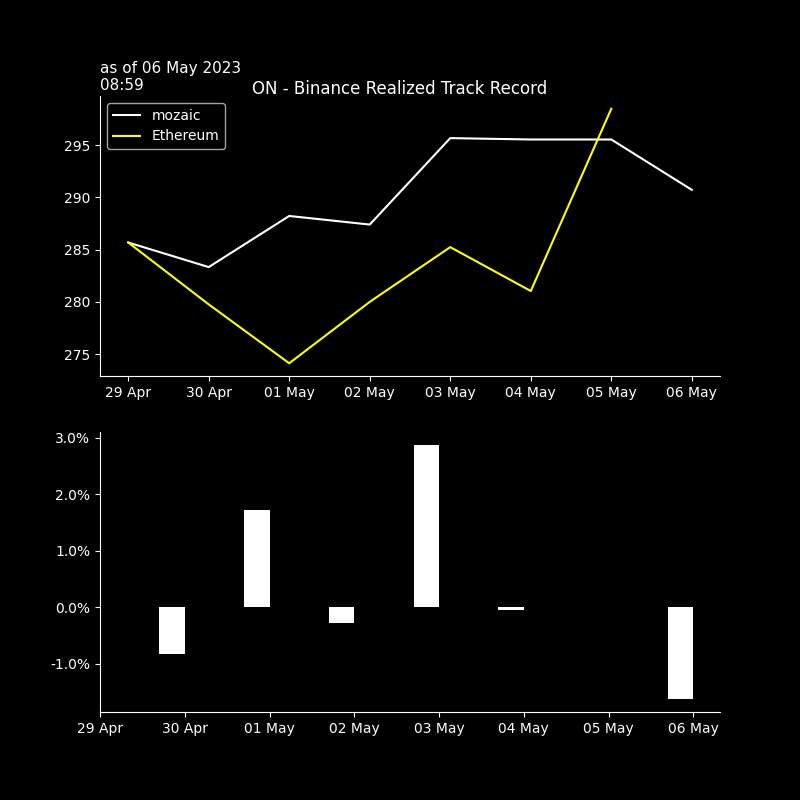
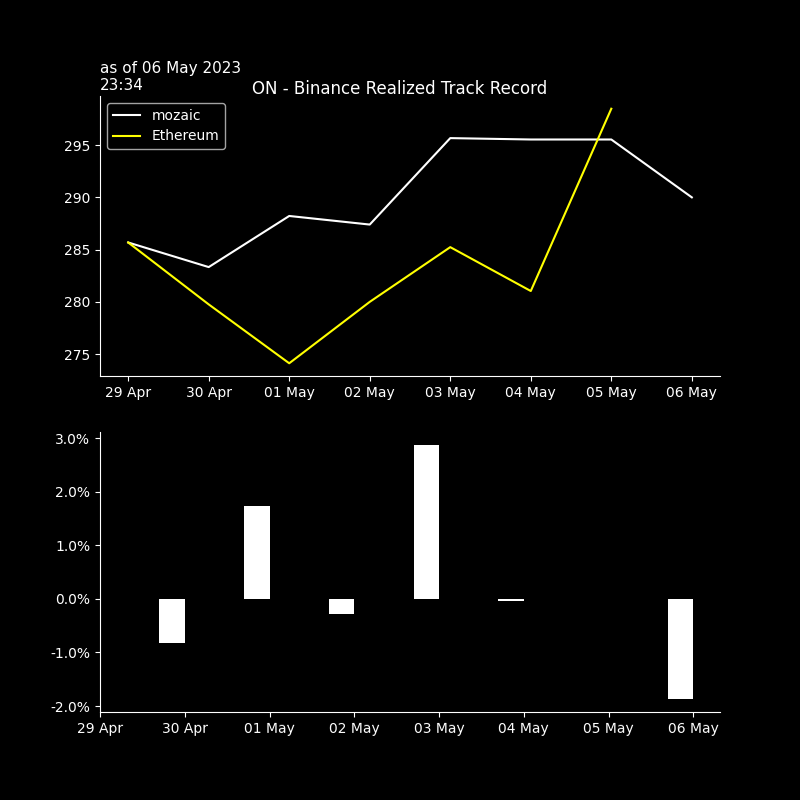
seb_commit

diff --git a/crypto/graphs/bt_trades_book.htmltrade_trades_book.html b/crypto/graphs/bt_trades_book.htmltrade_trades_book.html
@@ -37,55 +37,55 @@
   </thead>
   <tbody>
     <tr>
-      <th>BTCUSDT</th>
-      <td>28846.500</td>
-      <td>2023-05-06 18:35:26</td>
-      <td>0.005</td>
-      <td>$144.2</td>
-      <td>$0.03</td>
-      <td>2.0</td>
-      <td>0.0</td>
-      <td>28844.05000</td>
-      <td>2023-05-06 19:33</td>
-      <td>-0.0</td>
-      <td>-1.0</td>
-      <td>28837.9</td>
-      <td>-0.0</td>
-      <td>-3.0</td>
-    </tr>
-    <tr>
       <th>XRPUSDT</th>
-      <td>0.458</td>
-      <td>2023-05-06 18:35:05</td>
-      <td>317.400</td>
-      <td>$145.4</td>
-      <td>$0.03</td>
+      <td>0.4566</td>
+      <td>2023-05-06 22:34:32</td>
+      <td>-397.000</td>
+      <td>$-181.3</td>
+      <td>$0.04</td>
       <td>2.0</td>
-      <td>0.0</td>
-      <td>0.45805</td>
-      <td>2023-05-06 19:33</td>
+      <td>-0.4</td>
+      <td>0.45655</td>
+      <td>2023-05-06 23:31</td>
       <td>0.0</td>
       <td>1.0</td>
-      <td>.4579</td>
+      <td>.4566</td>
+      <td>-0.0</td>
+      <td>-0.0</td>
+    </tr>
+    <tr>
+      <th>BTCUSDT</th>
+      <td>28814.4000</td>
+      <td>2023-05-06 22:34:32</td>
+      <td>-0.006</td>
+      <td>$-172.9</td>
+      <td>$0.04</td>
+      <td>2.0</td>
+      <td>-0.2</td>
+      <td>28816.85000</td>
+      <td>2023-05-06 23:31</td>
+      <td>-0.0</td>
+      <td>-1.0</td>
+      <td>28819.8</td>
       <td>-0.0</td>
       <td>-2.0</td>
     </tr>
     <tr>
       <th>ETHUSDT</th>
-      <td>1890.690</td>
-      <td>2023-05-06 18:35:26</td>
-      <td>0.077</td>
-      <td>$145.6</td>
+      <td>1891.7200</td>
+      <td>2023-05-06 22:34:26</td>
+      <td>-0.077</td>
+      <td>$-145.7</td>
       <td>$0.03</td>
       <td>2.0</td>
-      <td>0.0</td>
-      <td>1889.77500</td>
-      <td>2023-05-06 19:33</td>
+      <td>0.1</td>
+      <td>1893.32500</td>
+      <td>2023-05-06 23:31</td>
+      <td>-0.1</td>
+      <td>-8.0</td>
+      <td>1892.59</td>
       <td>-0.1</td>
       <td>-5.0</td>
-      <td>1890.1</td>
-      <td>-0.1</td>
-      <td>-3.0</td>
     </tr>
   </tbody>
 </table>

diff --git a/crypto/graphs/bt_trades_recap.htmltrade_trades_recap.html b/crypto/graphs/bt_trades_recap.htmltrade_trades_recap.html
@@ -9,32 +9,32 @@
   <tbody>
     <tr>
       <th>as of</th>
-      <td>06May 18:35&gt;&gt;18:35</td>
+      <td>06May 22:34&gt;&gt;22:34</td>
       <td>#trades: 3</td>
     </tr>
     <tr>
       <th>trade net</th>
-      <td>+435.0</td>
-      <td>+149.6%</td>
+      <td>-500.0</td>
+      <td>-172.3%</td>
     </tr>
     <tr>
       <th>trade gross</th>
-      <td>+435.0</td>
-      <td>+149.6%</td>
+      <td>+500.0</td>
+      <td>+172.3%</td>
     </tr>
     <tr>
       <th>BUY</th>
-      <td>+435.0</td>
-      <td>+149.6%</td>
-    </tr>
-    <tr>
-      <th>SELL</th>
       <td>+0.0</td>
       <td>+0.0%</td>
     </tr>
     <tr>
+      <th>SELL</th>
+      <td>-500.0</td>
+      <td>-172.3%</td>
+    </tr>
+    <tr>
       <th>fees</th>
-      <td>$ 0.087</td>
+      <td>$ 0.1</td>
       <td>2.0bp</td>
     </tr>
   </tbody>

diff --git a/crypto/graphs/bt_trades_pnlD_recap.htmltrade_trades_pnlD_recap.html b/crypto/graphs/bt_trades_pnlD_recap.htmltrade_trades_pnlD_recap.html
@@ -1,7 +1,7 @@
 <table border="1" class="dataframe">
   <thead>
     <tr style="text-align: right;">
-      <th>06 May 19:35</th>
+      <th>06 May 23:34</th>
       <th>realizedPnl</th>
       <th>PnLvsArrival</th>
       <th>PnLvsLast</th>
@@ -10,21 +10,21 @@
   <tbody>
     <tr>
       <th>in$</th>
-      <td>0.0</td>
+      <td>-0.5</td>
       <td>-0.1</td>
       <td>-0.1</td>
     </tr>
     <tr>
-      <th>in bp 435 traded</th>
-      <td>0 bp</td>
-      <td>-1 bp</td>
-      <td>-3 bp</td>
+      <th>in bp 499 traded</th>
+      <td>-10 bp</td>
+      <td>-2 bp</td>
+      <td>-2 bp</td>
     </tr>
     <tr>
       <th>in bp 290 AUMs</th>
-      <td>0 bp</td>
-      <td>-2 bp</td>
+      <td>-18 bp</td>
       <td>-4 bp</td>
+      <td>-3 bp</td>
     </tr>
   </tbody>
 </table>
